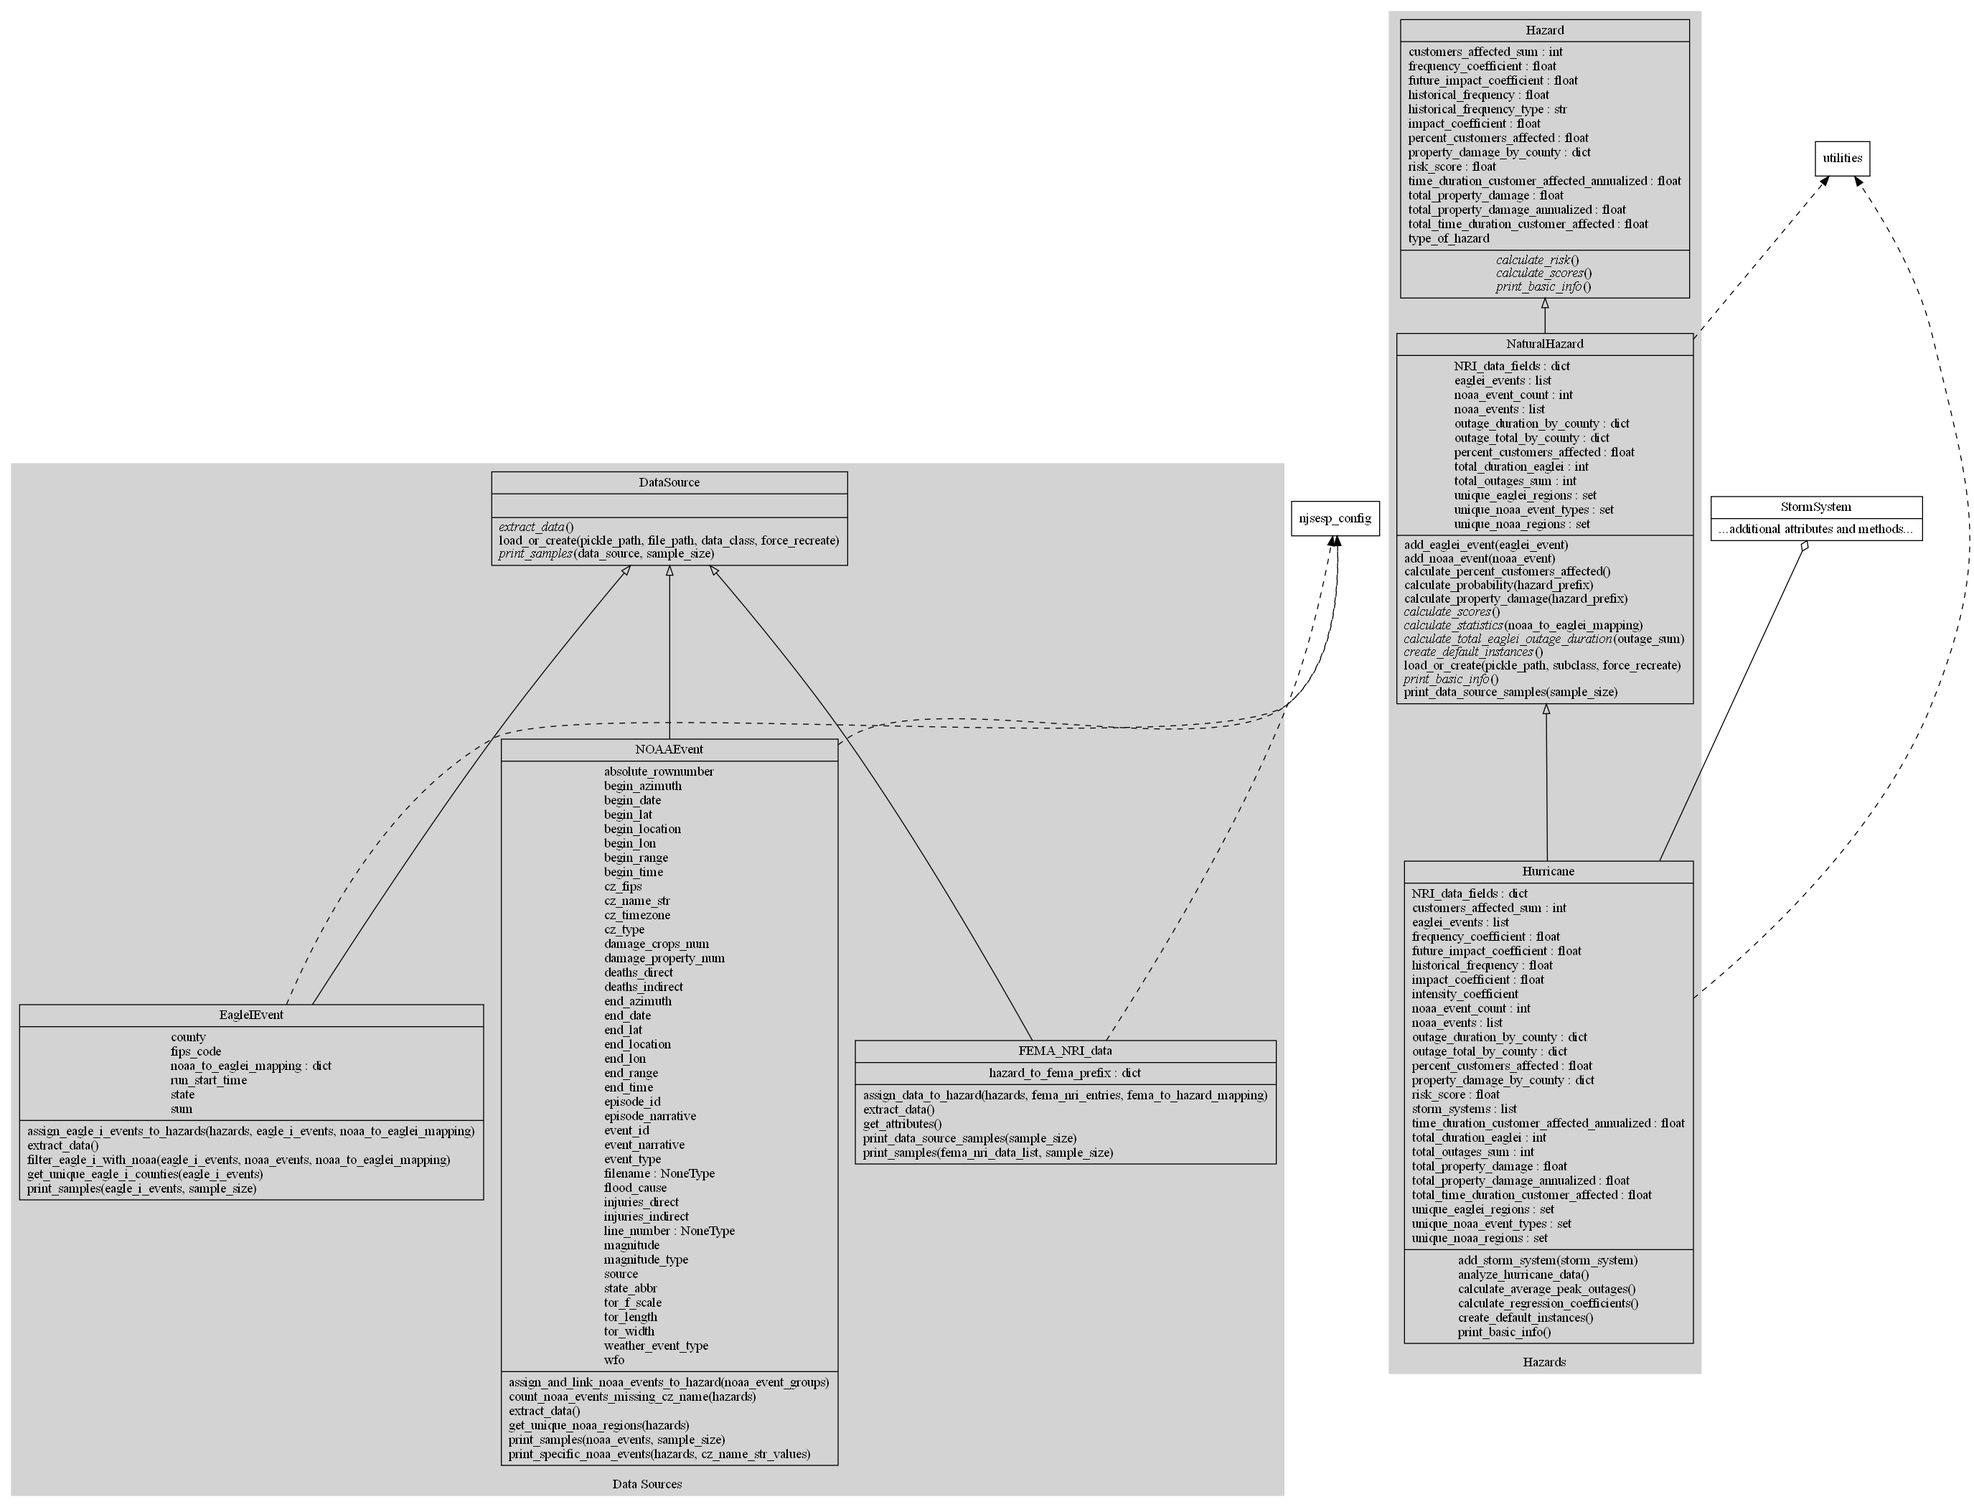
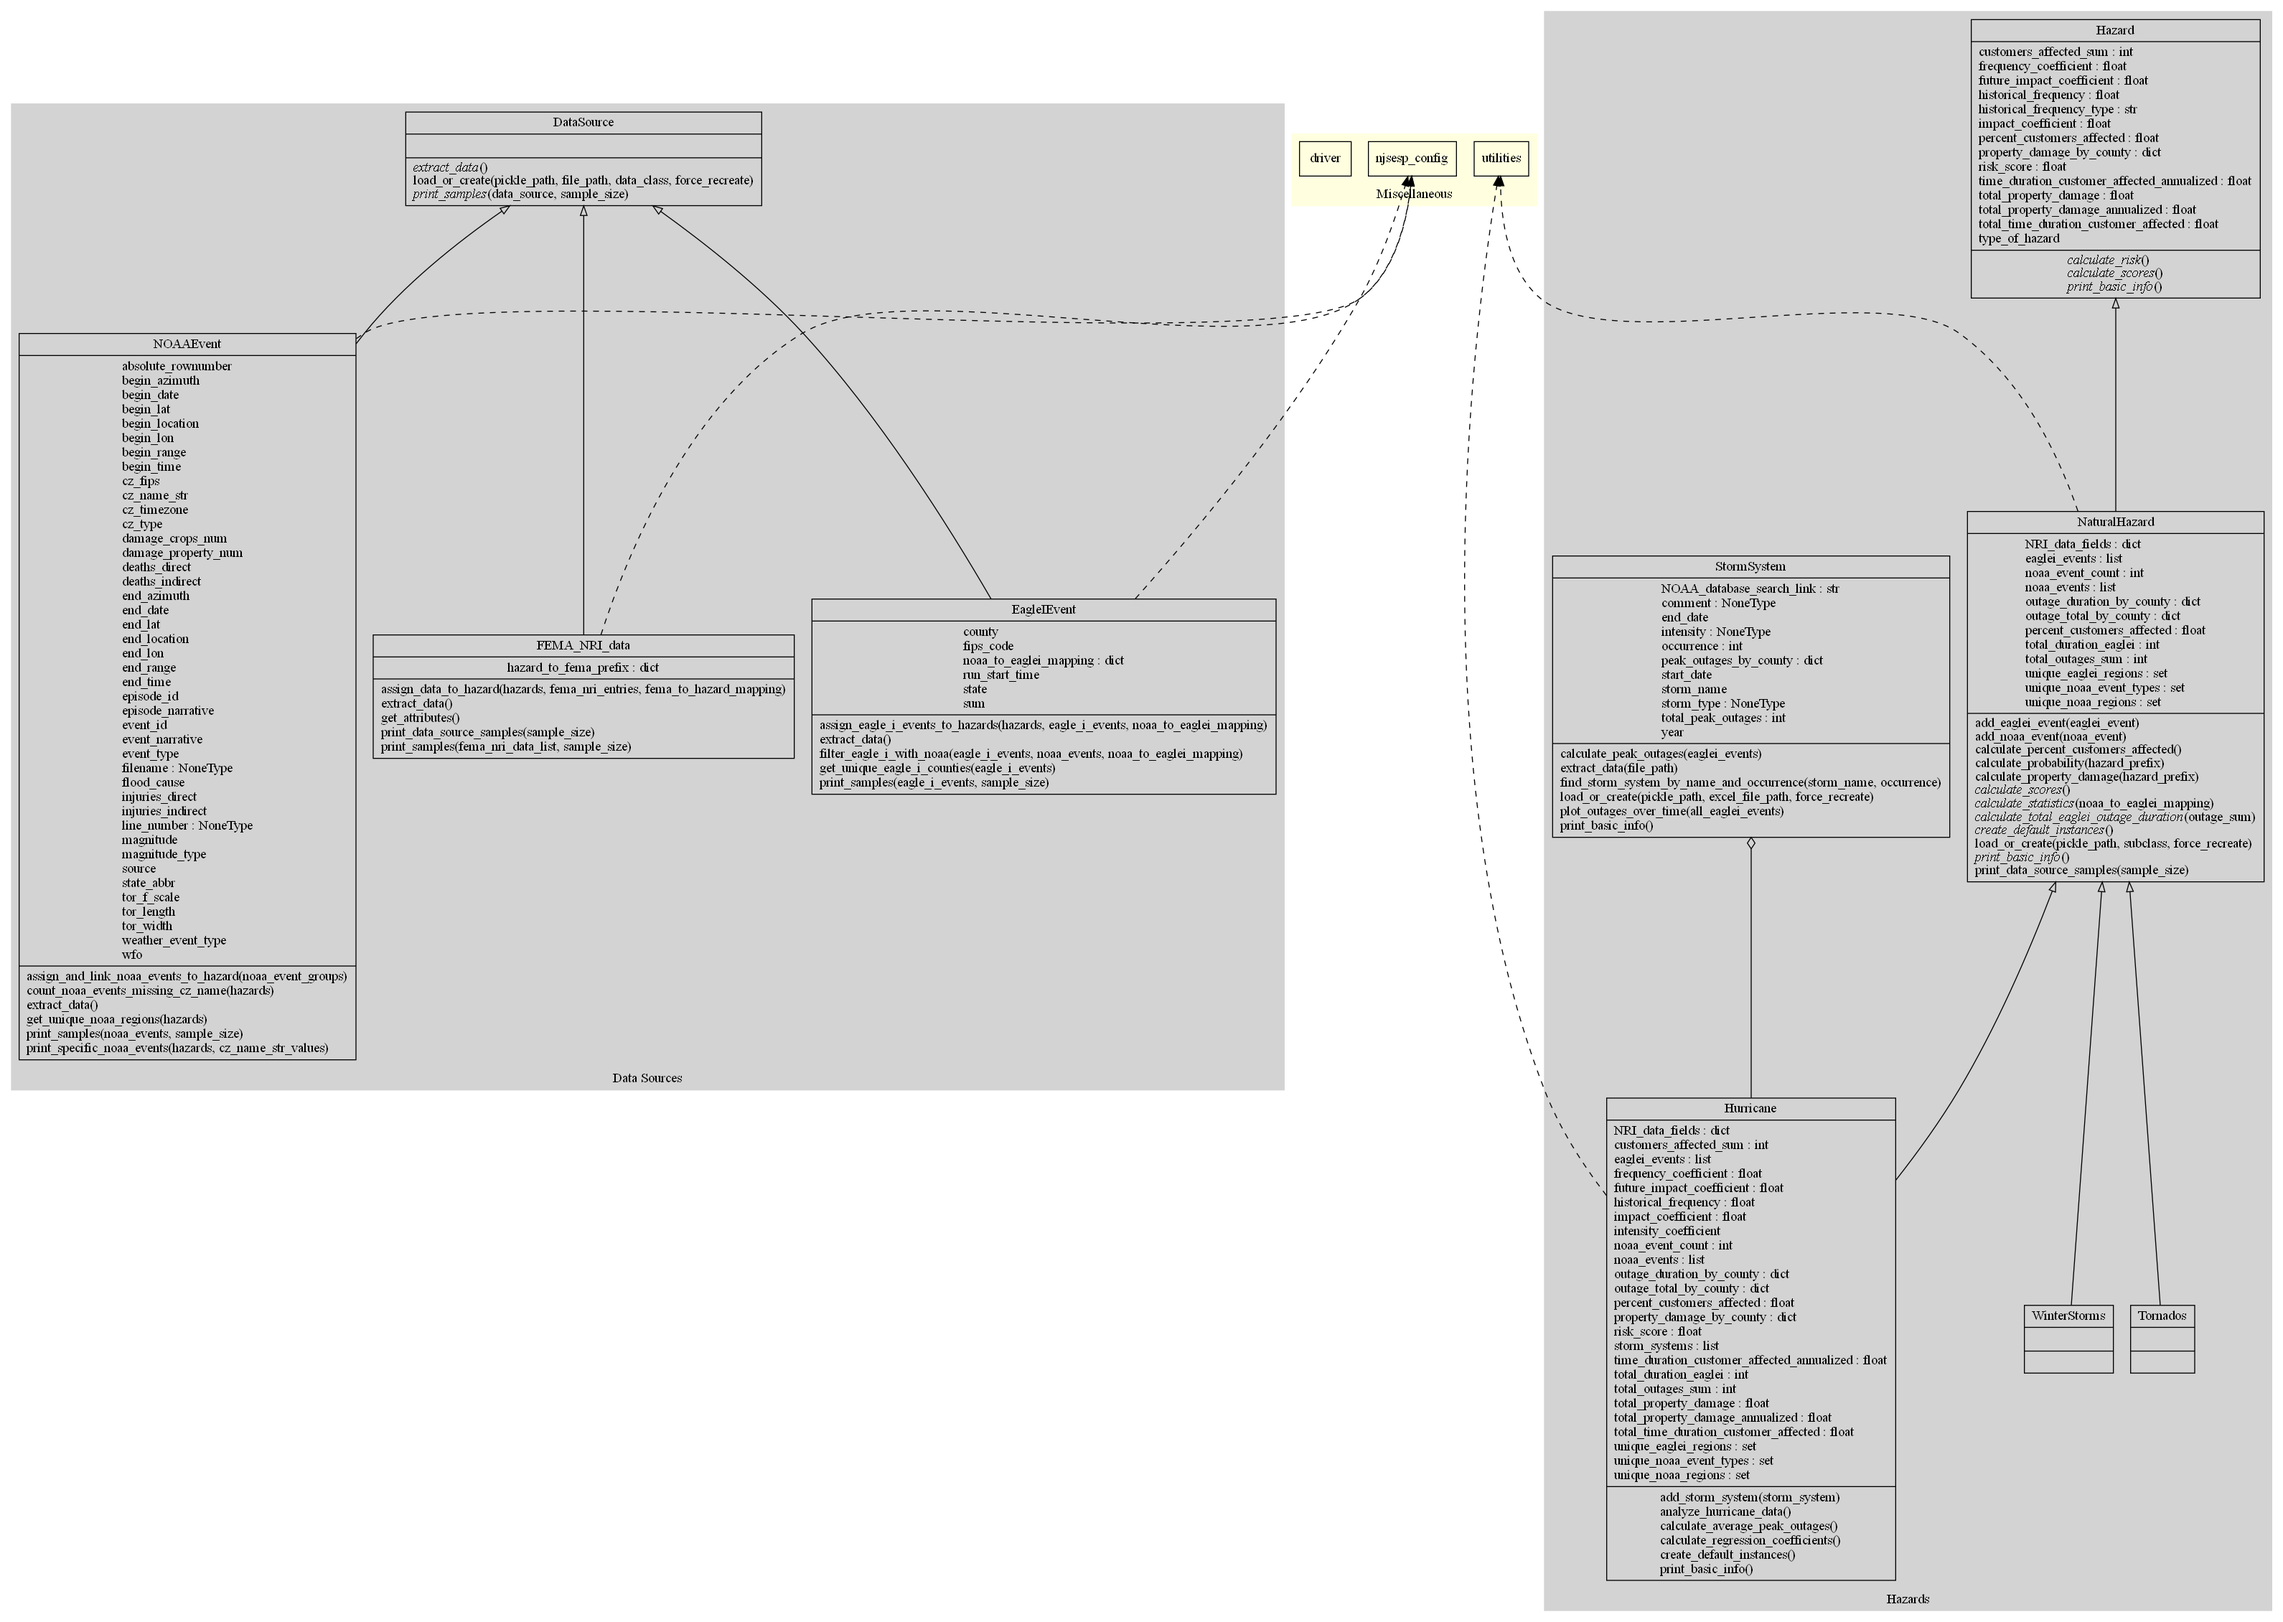
documentation gen almost done
needs more manual input that i'd hoped

diff --git a/documentation_generator.py b/documentation_generator.py
@@ -2,26 +2,30 @@ import subprocess
 import os
 import shutil
 
-def generate_uml_diagrams(package_path, output_directory, project_name='NJSESP_Dot_Rough_Draft'):
+def generate_uml_diagrams(package_path, output_directory, project_name='NJSESP', regenerate_rough_draft=False):
     # Ensure output directory exists
     if not os.path.exists(output_directory):
         os.makedirs(output_directory)
 
-    # Properly quote the package path
-    quoted_package_path = f'"{package_path}"'
+    if regenerate_rough_draft:
+        # Properly quote the package path
+        quoted_package_path = f'"{package_path}"'
 
-    # Build the pyreverse command
-    pyreverse_cmd = f'pyreverse -o dot -p {project_name} {quoted_package_path}'
+        # Build the pyreverse command
+        pyreverse_cmd = f'pyreverse -o dot -p {project_name} {quoted_package_path}'
 
-    # Execute the pyreverse command in the package directory
-    subprocess.run(pyreverse_cmd, shell=True, cwd=package_path)
+        # Execute the pyreverse command in the package directory
+        subprocess.run(pyreverse_cmd, shell=True, cwd=package_path)
 
-    # Move the generated 'dot' files to the output directory
-    dot_files = [file for file in os.listdir(package_path) if file.endswith('.dot')]
-    for dot_file in dot_files:
-        shutil.move(os.path.join(package_path, dot_file), os.path.join(output_directory, dot_file))
+        # Move the generated 'dot' files to the output directory
+        dot_files = [file for file in os.listdir(package_path) if file.endswith('.dot')]
+        for dot_file in dot_files:
+            shutil.move(os.path.join(package_path, dot_file), os.path.join(output_directory, dot_file))
 
-    print("Dot files generated. Please manually edit the dot files in the output directory.")
+        print("Rough draft dot files generated. Please manually edit the dot files in the output directory.")
+
+    # Convert 'dot' files to 'png'
+    convert_dot_to_png(output_directory)
 
 def convert_dot_to_png(output_directory):
     # Find all dot files in the output directory
@@ -33,12 +37,13 @@ def convert_dot_to_png(output_directory):
         output_png = full_dot_path.replace('.dot', '.png')
         subprocess.run(['dot', '-Tpng', full_dot_path, '-o', output_png], shell=True)
 
-    print("PNG files have been created from the edited dot files.")
+    print("PNG files have been created from the dot files.")
 
-# Example usage
 path_to_package = r'C:\Users\laure\Dropbox\School\BSE\Coursework\23 Fall\JuniorClinic\risk assessment\NJSESP_Data_Analysis\NJSESP_Data_Analysis_Program\NJ_SESP_Data_Analysis_Program'
-path_to_output = r'C:\Users\laure\Dropbox\School\BSE\Coursework\23 Fall\JuniorClinic\risk assessment\NJSESP_Data_Analysis\NJSESP_Data_Analysis_Program\NJ_SESP_Data_Analysis_Program\documentation'
+output_directory = r'C:\Users\laure\Dropbox\School\BSE\Coursework\23 Fall\JuniorClinic\risk assessment\NJSESP_Data_Analysis\NJSESP_Data_Analysis_Program\NJ_SESP_Data_Analysis_Program\documentation'
 
-generate_uml_diagrams(path_to_package, path_to_output)
-# After manually editing the dot files, call convert_dot_to_png
-convert_dot_to_png(path_to_output)
+# Set this flag to True to regenerate rough draft dot files, False to only convert existing dot files to PNG
+regenerate_rough_draft = True
+
+generate_uml_diagrams(path_to_package, output_directory, regenerate_rough_draft=regenerate_rough_draft)
+

diff --git a/winter_storms.py b/winter_storms.py
@@ -1,0 +1,13 @@
+#NJSESP Project
+#Lauren Eckert
+#Version 2
+
+#Winter storms class
+from natural_hazard import NaturalHazard
+import matplotlib.pyplot as plt
+import numpy as np
+from scipy import stats
+
+class WinterStorms(NaturalHazard):
+    def __init__(self, type_of_hazard='winter storms'):
+        super().__init__(type_of_hazard)

diff --git a/tornados.py b/tornados.py
@@ -1,0 +1,13 @@
+#NJSESP Project
+#Lauren Eckert
+#Version 2
+
+#Tornado class
+from natural_hazard import NaturalHazard
+import matplotlib.pyplot as plt
+import numpy as np
+from scipy import stats
+
+class Tornados(NaturalHazard):
+    def __init__(self, type_of_hazard='tornados'):
+        super().__init__(type_of_hazard)
